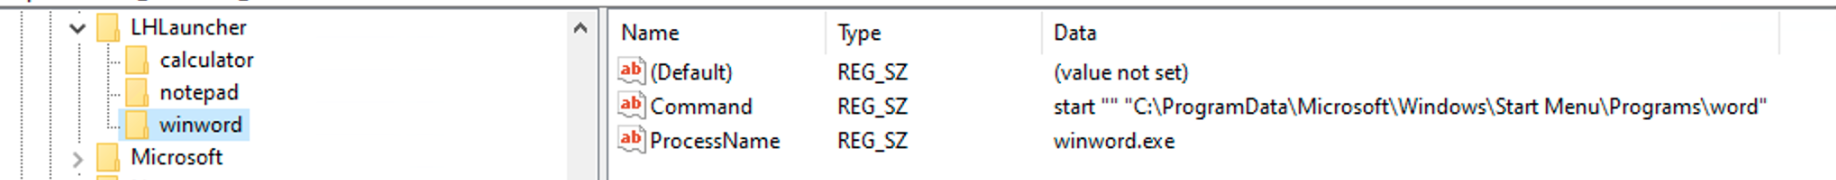
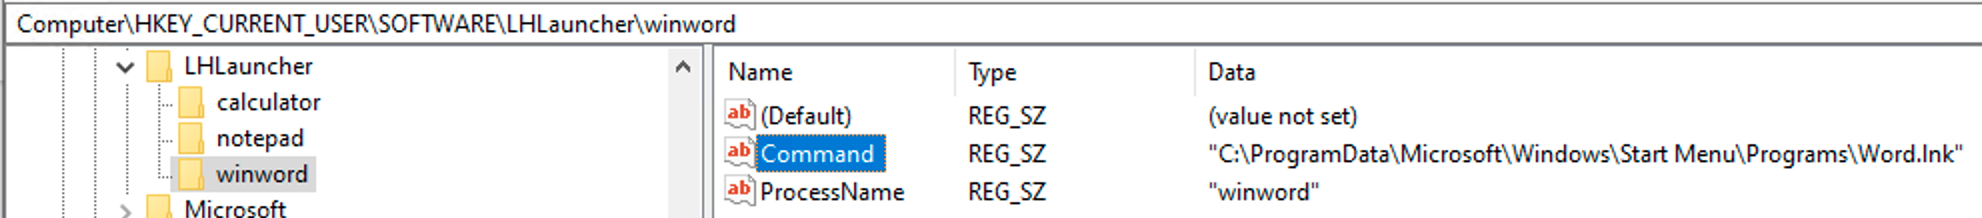
Docs update for new version 1.0.8 with support for Start menu .lnk files.

Changed region(s): [[0.0, 0.0, 1.0, 1.0], [0.5588, 0.5, 0.9935, 0.9444], [0.5588, 0.2778, 0.652, 0.4722]]

diff --git a/RealeaseNotes.md b/RealeaseNotes.md
@@ -1,9 +1,12 @@
 # Release Notes
 
-## [v1.0.6] - 2023-09-19
+## [v1.0.8] - 2023-09-27
 
 ### Added
-- Initial release with basic features.
+- Support for running applications from the .lnk Start Menu Items
+- additional logging for troubleshooting
+- Code Cleanup
+
 
 ## [v1.0.7] - 2023-09-25
 
@@ -18,6 +21,10 @@
 ### Fixed
 - Resolved some uninstall bugs where the program folder was not removed.
 
+## [v1.0.6] - 2023-09-19
+
+### Added
+- Initial release with basic features.
 ---
 
 For more details, see the [commit log](https://github.com/leonletto/localhost-app-launcher/commits) or the [full documentation](https://github.com/leonletto/localhost-app-launcher/blob/main/Docs/Docs.md).

diff --git a/Docs/Docs.md b/Docs/Docs.md
@@ -69,7 +69,7 @@ Sometimes you might not know exactly where the application is installed,
 or you might want to launch an application that is installed in the user's profile.
 In that case, you can use the Start Menu item to launch the application.
 
-To do this, you need to add a registry entry like this:
+To do this, you need to add a registry entry like this pointing to the Start Menu .lnk file:
 
 ![images/LaunchFromStartMenuShortcut.png](images/LaunchFromStartMenuShortcut.png)
 
